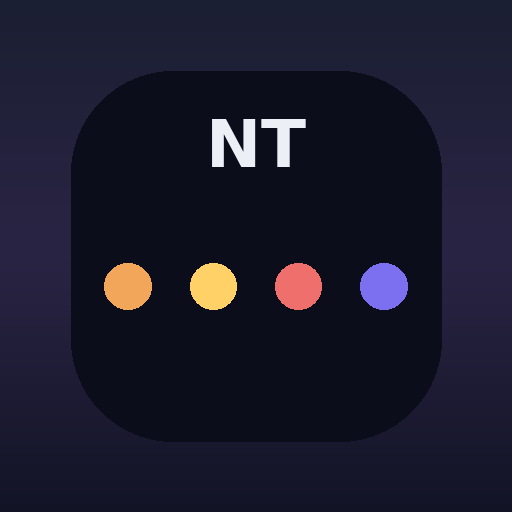
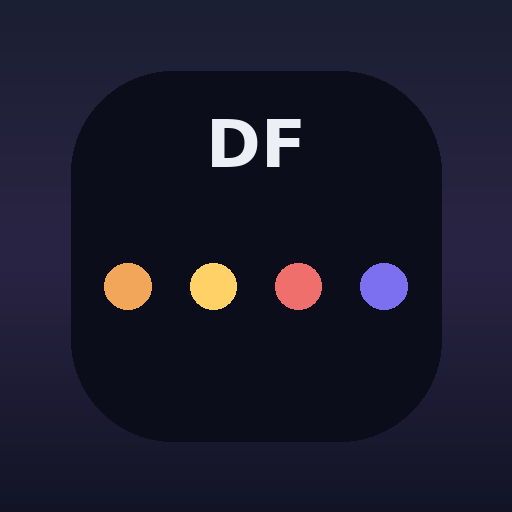
Add files via upload

Changed region(s): [[0.4375, 0.2188, 0.5938, 0.3438]]

diff --git a/index.html b/index.html
@@ -8,7 +8,7 @@
 <meta name="theme-color" content="#0B0E1A">
 <link rel="manifest" href="./manifest.json">
 <link rel="apple-touch-icon" href="./icon-192.png">
-<title>Nhịp Tuần</title>
+<title>Dayflow</title>
 <style>
   @import url('https://fonts.googleapis.com/css2?family=Fraunces:ital,wght@0,500;0,600;1,500&family=Inter:wght@400;500;600&family=IBM+Plex+Mono:wght@400;500&display=swap');
 
@@ -34,7 +34,6 @@
   .day-label{ font-family:'Fraunces',serif; font-weight:600; font-size:28px; }
   .date-sub{ font-family:'IBM Plex Mono'; font-size:12px; color:var(--text-dim); margin-top:4px; }
 
-  /* signature: day arc */
   .arc-wrap{ margin:28px 0 8px; }
   .arc{ display:flex; align-items:center; }
   .arc-node{ flex:0 0 auto; width:14px; height:14px; border-radius:50%; background:var(--surface-2); border:2px solid var(--line); position:relative; }
@@ -42,38 +41,58 @@
   .arc-line{ flex:1; height:2px; background:var(--line); margin:0 2px; }
   .arc-line.filled{ background:linear-gradient(90deg, var(--lc), var(--rc)); }
   .arc-labels{ display:flex; justify-content:space-between; margin-top:8px; }
-  .arc-labels span{ font-family:'IBM Plex Mono'; font-size:10px; color:var(--text-dim); width:14px; text-align:center; transform:translateX(0); }
+  .arc-labels span{ font-family:'IBM Plex Mono'; font-size:10px; color:var(--text-dim); width:14px; text-align:center; }
 
   .slot-card{ margin-top:14px; background:var(--surface); border:1px solid var(--line); border-radius:16px; padding:16px 18px; border-left:3px solid var(--sc); }
   .slot-head{ display:flex; align-items:center; gap:8px; }
   .slot-dot{ width:8px; height:8px; border-radius:50%; background:var(--sc); }
   .slot-name{ font-family:'Fraunces',serif; font-weight:500; font-size:15px; color:var(--text-dim); }
-  .slot-task{ margin-top:8px; font-size:16px; line-height:1.5; }
-  .slot-task.empty{ color:var(--text-dim); font-style:italic; }
+  .activity-list{ margin-top:8px; }
+  .activity-row{ display:flex; gap:12px; align-items:baseline; padding:7px 0; border-top:1px solid var(--line); }
+  .activity-row:first-child{ border-top:none; padding-top:2px; }
+  .activity-time{ font-family:'IBM Plex Mono'; font-size:12px; color:var(--text-dim); width:40px; flex-shrink:0; }
+  .activity-text{ font-size:15px; line-height:1.5; }
+  .slot-task.empty{ margin-top:8px; color:var(--text-dim); font-style:italic; font-size:15px; }
 
   .section-label{ margin: 26px 0 10px; font-size:12px; letter-spacing:0.06em; text-transform:uppercase; color:var(--text-dim); font-weight:600; }
 
   .day-block{ background:var(--surface); border:1px solid var(--line); border-radius:16px; padding:16px 18px; margin-bottom:12px; }
-  .day-block-title{ font-family:'Fraunces',serif; font-weight:600; font-size:16px; margin-bottom:10px; }
+  .day-block-title{ font-family:'Fraunces',serif; font-weight:600; font-size:16px; margin-bottom:6px; }
   .day-block.today{ border-color: var(--night); }
-  .slot-input-row{ display:flex; align-items:center; gap:10px; padding:6px 0; }
-  .slot-input-row .mini-dot{ width:8px; height:8px; border-radius:50%; flex-shrink:0; }
-  .slot-input-row label{ width:44px; flex-shrink:0; font-family:'IBM Plex Mono'; font-size:11px; color:var(--text-dim); }
-  .slot-input-row input{
+
+  .slot-edit-block{ margin-top:14px; padding-top:12px; border-top:1px solid var(--line); }
+  .slot-edit-block:first-of-type{ margin-top:8px; }
+  .slot-edit-head{ display:flex; align-items:center; gap:8px; font-family:'IBM Plex Mono'; font-size:12px; color:var(--text-dim); margin-bottom:8px; }
+  .mini-dot{ width:8px; height:8px; border-radius:50%; flex-shrink:0; }
+
+  .activity-edit-row{ display:flex; align-items:center; gap:8px; margin-bottom:8px; }
+  .activity-edit-row input[type="time"]{
+    width:92px; flex-shrink:0; background:var(--surface-2); border:1px solid var(--line); border-radius:10px;
+    color:var(--text); padding:8px 8px; font-size:12px; font-family:'IBM Plex Mono'; outline:none;
+    color-scheme: dark;
+  }
+  .activity-edit-row input[type="text"]{
     flex:1; min-width:0; background:var(--surface-2); border:1px solid var(--line); border-radius:10px;
     color:var(--text); padding:9px 11px; font-size:13px; font-family:'Inter'; outline:none;
   }
-  .slot-input-row input:focus{ border-color: var(--night); }
+  .activity-edit-row input:focus{ border-color: var(--night); }
+  .del-btn{ background:none; border:none; color:var(--dusk); font-size:14px; cursor:pointer; padding:4px; flex-shrink:0; }
+  .add-activity-btn{
+    width:100%; padding:9px; border-radius:10px; border:1px dashed var(--line); background:transparent;
+    color:var(--text-dim); font-size:12px; cursor:pointer; margin-top:2px;
+  }
+  .add-activity-btn:active{ transform:scale(0.98); }
 
   .hint{ margin-top:14px; font-size:12px; color:var(--text-dim); text-align:center; line-height:1.5; }
   .reset-btn{ margin-top:22px; width:100%; padding:13px; border-radius:14px; border:1px solid var(--line); background:var(--surface); color:var(--text-dim); font-size:13px; cursor:pointer; }
+  .notif-btn{ margin-top:16px; width:100%; padding:13px; border-radius:14px; border:1px solid var(--night); background:transparent; color:var(--text); font-size:13px; cursor:pointer; }
 </style>
 </head>
 <body>
 <div class="app" id="app"></div>
 
 <script>
-const STORE_KEY = "nhip-tuan-schedule-v1";
+const STORE_KEY = "dayflow-schedule-v2";
 
 const DAYS = [
   {jsDay:1, label:'Thứ Hai'},
@@ -92,15 +111,49 @@ const SLOTS = [
   {key:'toi', label:'Tối', varName:'--night'},
 ];
 
+let idCounter = 1;
+function genId(){ return 'a' + (idCounter++) + '_' + Date.now().toString(36); }
+
+function emptyDay(){ return {sang:[], trua:[], chieu:[], toi:[]}; }
+
 function loadSchedule(){
+  let data;
   try{
     const raw = localStorage.getItem(STORE_KEY);
-    if(raw) return JSON.parse(raw);
-  }catch(e){}
-  const s = {};
-  DAYS.forEach(d=> s[d.jsDay] = {sang:'', trua:'', chieu:'', toi:''});
-  return s;
+    data = raw ? JSON.parse(raw) : null;
+  }catch(e){ data = null; }
+
+  // migrate from old single-text-per-slot format (dayflow-schedule-v1) if present and v2 missing
+  if(!data){
+    try{
+      const oldRaw = localStorage.getItem('dayflow-schedule-v1') || localStorage.getItem('nhip-tuan-schedule-v1');
+      if(oldRaw){
+        const old = JSON.parse(oldRaw);
+        data = {};
+        DAYS.forEach(d=>{
+          const day = old[d.jsDay] || {};
+          const nd = emptyDay();
+          SLOTS.forEach(s=>{
+            const v = (day[s.key]||'').trim();
+            if(v) nd[s.key] = [{id:genId(), time:'', text:v}];
+          });
+          data[d.jsDay] = nd;
+        });
+      }
+    }catch(e){}
+  }
+
+  if(!data) data = {};
+  DAYS.forEach(d=>{
+    if(!data[d.jsDay]) data[d.jsDay] = emptyDay();
+    SLOTS.forEach(s=>{
+      if(!Array.isArray(data[d.jsDay][s.key])) data[d.jsDay][s.key] = [];
+      data[d.jsDay][s.key].forEach(a=>{ if(!a.id) a.id = genId(); });
+    });
+  });
+  return data;
 }
+
 let schedule = loadSchedule();
 let state = { view: 'today' };
 
@@ -117,6 +170,12 @@ function currentSlotKey(){
 function pad2(n){ return String(n).padStart(2,'0'); }
 function escapeHtml(s){ return String(s).replace(/[&<>"']/g, c=>({"&":"&amp;","<":"&lt;",">":"&gt;",'"':"&quot;","'":"&#39;"}[c])); }
 
+function notifBtnHtml(){
+  if(!('Notification' in window)) return '';
+  if(Notification.permission === 'granted') return '';
+  return `<button class="notif-btn" id="notif-btn">Bật thông báo nhắc giờ hoạt động</button>`;
+}
+
 function render(){
   const app = document.getElementById('app');
   app.innerHTML = state.view === 'today' ? renderToday() : renderEdit();
@@ -128,7 +187,7 @@ function renderToday(){
   const jsDay = now.getDay();
   const dayInfo = DAYS.find(d=>d.jsDay===jsDay);
   const dateStr = `${pad2(now.getDate())}/${pad2(now.getMonth()+1)}/${now.getFullYear()}`;
-  const todaySchedule = schedule[jsDay] || {sang:'',trua:'',chieu:'',toi:''};
+  const todaySchedule = schedule[jsDay] || emptyDay();
   const activeKey = currentSlotKey();
   const activeIdx = SLOTS.findIndex(s=>s.key===activeKey);
 
@@ -137,25 +196,33 @@ function renderToday(){
     arcHtml += `<div class="arc-node ${i===activeIdx?'active':''}" style="--nc:var(${s.varName})"></div>`;
     if(i < SLOTS.length-1){
       const filled = i < activeIdx;
-      const lc = `var(${s.varName})`, rc = `var(${SLOTS[i+1].varName})`;
-      arcHtml += `<div class="arc-line ${filled?'filled':''}" style="--lc:${lc}; --rc:${rc};"></div>`;
+      arcHtml += `<div class="arc-line ${filled?'filled':''}" style="--lc:var(${s.varName}); --rc:var(${SLOTS[i+1].varName});"></div>`;
     }
   });
   arcHtml += '</div><div class="arc-labels">' + SLOTS.map(s=>`<span>${s.label[0]}</span>`).join('') + '</div>';
 
   const cards = SLOTS.map(s=>{
-    const task = (todaySchedule[s.key]||'').trim();
+    const activities = (todaySchedule[s.key]||[]).slice().sort((a,b)=>(a.time||'99:99').localeCompare(b.time||'99:99'));
+    const withText = activities.filter(a=>(a.text||'').trim());
+    const list = withText.length
+      ? `<div class="activity-list">${withText.map(a=>`
+          <div class="activity-row">
+            <span class="activity-time">${a.time?escapeHtml(a.time):''}</span>
+            <span class="activity-text">${escapeHtml(a.text)}</span>
+          </div>
+        `).join('')}</div>`
+      : `<div class="slot-task empty">Không có công việc nào</div>`;
     return `
       <div class="slot-card" style="--sc:var(${s.varName})">
         <div class="slot-head"><span class="slot-dot"></span><span class="slot-name">${s.label}</span></div>
-        <div class="slot-task ${task?'':'empty'}">${task ? escapeHtml(task) : 'Không có công việc nào'}</div>
+        ${list}
       </div>
     `;
   }).join('');
 
   return `
     <div class="topbar">
-      <div class="wordmark">Nhịp Tuần</div>
+      <div class="wordmark">Dayflow</div>
       <button class="icon-btn" id="edit-btn" aria-label="Chỉnh sửa lịch tuần">✎</button>
     </div>
     <div class="date-row">
@@ -164,6 +231,7 @@ function renderToday(){
     </div>
     <div class="arc-wrap">${arcHtml}</div>
     ${cards}
+    ${notifBtnHtml()}
   `;
 }
 
@@ -172,17 +240,27 @@ function renderEdit(){
   const todayJsDay = now.getDay();
 
   const blocks = DAYS.map(d=>{
-    const rows = SLOTS.map(s=>`
-      <div class="slot-input-row">
-        <span class="mini-dot" style="background:var(${s.varName})"></span>
-        <label>${s.label}</label>
-        <input type="text" value="${escapeHtml(schedule[d.jsDay][s.key]||'')}" data-day="${d.jsDay}" data-slot="${s.key}" placeholder="vd: Học tiếng Anh">
-      </div>
-    `).join('');
+    const slotsHtml = SLOTS.map(s=>{
+      const activities = schedule[d.jsDay][s.key] || [];
+      const rows = activities.map(a=>`
+        <div class="activity-edit-row">
+          <input type="time" value="${escapeHtml(a.time||'')}" data-act-time="${d.jsDay}|${s.key}|${a.id}">
+          <input type="text" value="${escapeHtml(a.text||'')}" data-act-text="${d.jsDay}|${s.key}|${a.id}" placeholder="hoạt động">
+          <button class="del-btn" data-act-del="${d.jsDay}|${s.key}|${a.id}">✕</button>
+        </div>
+      `).join('');
+      return `
+        <div class="slot-edit-block">
+          <div class="slot-edit-head"><span class="mini-dot" style="background:var(${s.varName})"></span><span>${s.label}</span></div>
+          ${rows}
+          <button class="add-activity-btn" data-act-add="${d.jsDay}|${s.key}">+ Thêm hoạt động</button>
+        </div>
+      `;
+    }).join('');
     return `
       <div class="day-block ${d.jsDay===todayJsDay?'today':''}">
         <div class="day-block-title">${d.label}${d.jsDay===todayJsDay?' · hôm nay':''}</div>
-        ${rows}
+        ${slotsHtml}
       </div>
     `;
   }).join('');
@@ -192,7 +270,7 @@ function renderEdit(){
       <div class="wordmark">Chỉnh lịch tuần</div>
       <button class="icon-btn" id="back-btn" aria-label="Quay lại">←</button>
     </div>
-    <div class="hint" style="text-align:left; margin-top:16px;">Điền công việc cho từng buổi trong tuần. Bỏ trống buổi nào thì màn hình "Hôm nay" sẽ hiện "Không có công việc nào" cho buổi đó.</div>
+    <div class="hint" style="text-align:left; margin-top:16px;">Mỗi buổi có thể thêm nhiều hoạt động, mỗi hoạt động gắn 1 giờ cụ thể (không bắt buộc). Đến đúng giờ đó, app sẽ gửi thông báo nhắc nếu bạn đã bật thông báo và app đang mở.</div>
     <div class="section-label">Cả tuần</div>
     ${blocks}
     <button class="reset-btn" id="reset-btn">Xoá toàn bộ lịch tuần</button>
@@ -205,27 +283,80 @@ function bindEvents(){
   const backBtn = document.getElementById('back-btn');
   if(backBtn) backBtn.onclick = ()=>{ state.view='today'; render(); };
 
-  document.querySelectorAll('[data-day]').forEach(el=>{
+  const notifBtn = document.getElementById('notif-btn');
+  if(notifBtn) notifBtn.onclick = ()=>{ Notification.requestPermission().then(()=> render()); };
+
+  document.querySelectorAll('[data-act-time]').forEach(el=>{
     el.onchange = ()=>{
-      const day = parseInt(el.dataset.day,10);
-      const slot = el.dataset.slot;
-      schedule[day][slot] = el.value.trim();
-      persist();
+      const [day,slot,id] = el.dataset.actTime.split('|');
+      const act = (schedule[day][slot]||[]).find(a=>a.id===id);
+      if(act){ act.time = el.value; act.lastNotifiedDate = null; persist(); }
+    };
+  });
+  document.querySelectorAll('[data-act-text]').forEach(el=>{
+    el.onchange = ()=>{
+      const [day,slot,id] = el.dataset.actText.split('|');
+      const act = (schedule[day][slot]||[]).find(a=>a.id===id);
+      if(act){ act.text = el.value.trim(); persist(); }
+    };
+  });
+  document.querySelectorAll('[data-act-del]').forEach(el=>{
+    el.onclick = ()=>{
+      const [day,slot,id] = el.dataset.actDel.split('|');
+      schedule[day][slot] = (schedule[day][slot]||[]).filter(a=>a.id!==id);
+      persist(); render();
+    };
+  });
+  document.querySelectorAll('[data-act-add]').forEach(el=>{
+    el.onclick = ()=>{
+      const [day,slot] = el.dataset.actAdd.split('|');
+      if(!schedule[day][slot]) schedule[day][slot] = [];
+      schedule[day][slot].push({id:genId(), time:'', text:''});
+      persist(); render();
     };
   });
 
   const resetBtn = document.getElementById('reset-btn');
   if(resetBtn) resetBtn.onclick = ()=>{
-    DAYS.forEach(d=> schedule[d.jsDay] = {sang:'',trua:'',chieu:'',toi:''});
+    DAYS.forEach(d=> schedule[d.jsDay] = emptyDay());
     persist(); render();
   };
 }
+
+function checkNotifications(){
+  if(state.view !== 'today') return;
+  if(!('Notification' in window) || Notification.permission !== 'granted') return;
+  const now = new Date();
+  const jsDay = now.getDay();
+  const todayStr = now.toDateString();
+  const nowMinutes = now.getHours()*60 + now.getMinutes();
+  const daySchedule = schedule[jsDay];
+  if(!daySchedule) return;
+  let changed = false;
+  SLOTS.forEach(s=>{
+    (daySchedule[s.key]||[]).forEach(a=>{
+      if(!a.time || !(a.text||'').trim()) return;
+      if(a.lastNotifiedDate === todayStr) return;
+      const [h,m] = a.time.split(':').map(Number);
+      const actMinutes = h*60+m;
+      if(nowMinutes >= actMinutes && nowMinutes <= actMinutes+5){
+        a.lastNotifiedDate = todayStr;
+        changed = true;
+        try{ new Notification('Dayflow', {body: a.text}); }catch(e){}
+      }
+    });
+  });
+  if(changed) persist();
+}
+setInterval(checkNotifications, 15000);
+document.addEventListener('visibilitychange', ()=>{ if(!document.hidden) checkNotifications(); });
 
 if('serviceWorker' in navigator){
   window.addEventListener('load', ()=>{ navigator.serviceWorker.register('./sw.js').catch(()=>{}); });
 }
 
 render();
+checkNotifications();
 setInterval(()=>{ if(state.view==='today') render(); }, 60000);
 </script>
 </body>

diff --git a/sw.js b/sw.js
@@ -1,4 +1,4 @@
-const CACHE = "nhip-tuan-v1";
+const CACHE = "dayflow-v2";
 const ASSETS = ["./", "./index.html", "./manifest.json", "./icon-192.png", "./icon-512.png"];
 
 self.addEventListener("install", (e) => {

diff --git a/README.md b/README.md
@@ -1,18 +1,21 @@
-# Nhịp Tuần — lịch làm việc theo buổi trong ngày
+# Dayflow — lịch làm việc theo buổi trong ngày
 
 ## Cài đặt (giống hệt quy trình bạn đã làm với Vocab Alarm)
 
 1. Vào https://app.netlify.com/drop, kéo thả cả thư mục này (4 file: `index.html`, `manifest.json`, `sw.js`, và 2 icon) vào — sẽ có ngay 1 link. (Hoặc dùng GitHub Pages như trước nếu muốn ổn định lâu dài: tạo repo mới, upload các file này, bật Pages trong Settings.)
 2. Mở link đó bằng **Safari** trên iPhone.
 3. Bấm nút Chia sẻ → **"Thêm vào MH chính"**.
-4. Icon "Nhịp Tuần" sẽ xuất hiện trên màn hình chính, mở lên chạy full màn hình như app thật.
+4. Icon "Dayflow" sẽ xuất hiện trên màn hình chính, mở lên chạy full màn hình như app thật.
 
 ## Cách dùng
 
 1. Mở app → bấm icon bút **✎** ở góc trên bên phải → vào màn hình "Chỉnh lịch tuần".
-2. Mỗi ngày trong tuần (Thứ Hai → Chủ Nhật) có 4 ô: **Sáng, Trưa, Chiều, Tối** — điền công việc cho từng buổi. Ô nào để trống thì buổi đó coi như không có việc gì.
-3. Bấm **←** để quay lại màn hình chính — màn hình này tự nhận diện hôm nay là thứ mấy và **chỉ hiện đúng lịch của ngày hôm đó**, chia theo 4 buổi. Sang ngày mới, mở app lên sẽ tự động hiện đúng lịch của ngày mới, không cần làm gì thêm.
-4. Buổi nào không có việc sẽ hiện chữ "Không có công việc nào".
-5. Dải chấm tròn phía trên (Sáng — Trưa — Chiều — Tối) là thanh nhịp ngày — chấm nào đang sáng lên là buổi hiện tại theo giờ thực trên máy bạn.
+2. Mỗi ngày trong tuần (Thứ Hai → Chủ Nhật) chia thành 4 buổi: **Sáng, Trưa, Chiều, Tối**. Trong mỗi buổi, bấm **"+ Thêm hoạt động"** để thêm bao nhiêu hoạt động tuỳ ý — mỗi hoạt động có 1 ô chọn giờ cụ thể (không bắt buộc) và 1 ô mô tả công việc. Bấm ✕ để xoá hoạt động nào không cần nữa.
+3. Bấm **←** để quay lại màn hình chính — tự nhận diện hôm nay là thứ mấy, chỉ hiện đúng lịch ngày đó, các hoạt động trong từng buổi được sắp theo giờ tăng dần. Buổi nào không có hoạt động nào (có mô tả) sẽ hiện "Không có công việc nào".
+4. Bấm **"Bật thông báo nhắc giờ hoạt động"** một lần để cho phép app gửi thông báo — Safari sẽ hỏi xin quyền, bấm Allow.
 
-Dữ liệu lưu trên máy (localStorage), không cần mạng sau khi cài, không đồng bộ với thiết bị khác (giống Vocab Alarm bản đầu — nếu sau này bạn muốn đồng bộ nhiều máy, có thể áp dụng đúng cơ chế Gist đã làm bên Vocab Alarm).
+App tự kiểm tra giờ mỗi 15 giây khi đang mở — hoạt động nào có đặt giờ, đến đúng giờ đó (trong vòng 5 phút) sẽ gửi 1 thông báo nhắc, nội dung chính là mô tả hoạt động bạn đã điền.
+
+**Lưu ý về giới hạn của iOS** (giống hệt Vocab Alarm): thông báo chỉ hoạt động đáng tin cậy khi app đang mở trên màn hình. Nếu bạn chuyển sang app khác hoặc khoá máy, iOS tạm dừng code của app nên có thể bị lỡ thông báo — đây là giới hạn chung của mọi web app trên iOS, không phải lỗi riêng của Dayflow.
+
+Dữ liệu lưu trên máy (localStorage), không cần mạng sau khi cài, không đồng bộ với thiết bị khác.
